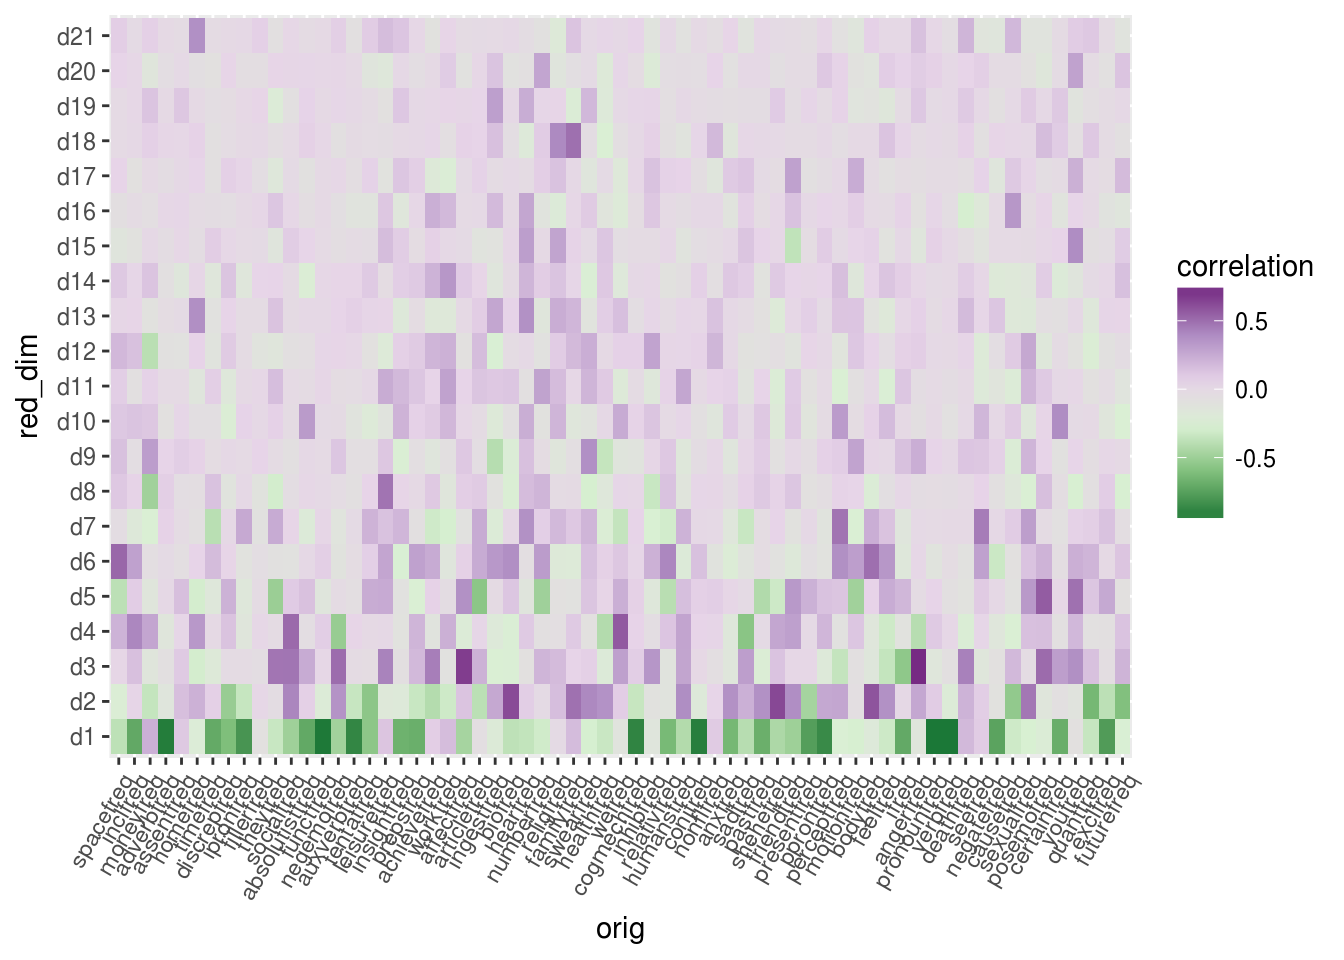
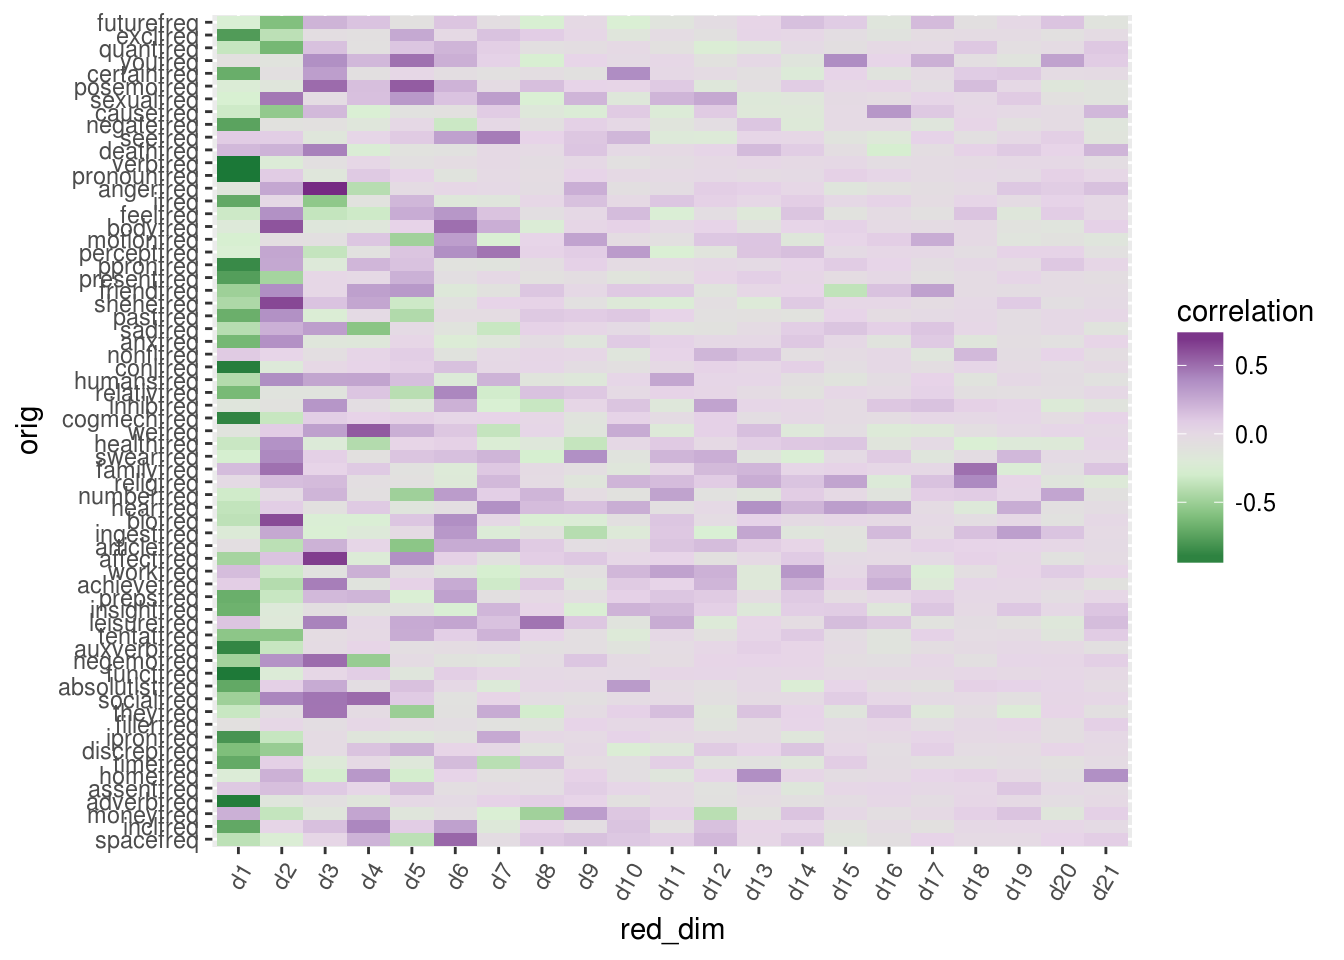
edit home

diff --git a/public/finalslides/index.html b/public/finalslides/index.html
@@ -16,8 +16,8 @@
 <meta property="og:locale" content="nn_NO" />
 <meta property="og:type" content="article" />
 <meta property="og:url" content="/finalslides/" />
-<meta property="og:title" content="Take a Sad Plot And Make It Better 3.0" />
-<meta property="twitter:title" content="Take a Sad Plot And Make It Better 3.0">
+<meta property="og:title" content="Take a Sad Plot and Make it Better 3.0" />
+<meta property="twitter:title" content="Take a Sad Plot and Make it Better 3.0">
 
     <meta property="og:image" content="/img/banner.png">
     <meta property="twitter:card" content="summary">
@@ -29,7 +29,7 @@
 <title>
 
 
-     CS631: Take a sad plot and make it better - Take a Sad Plot And Make It Better 3.0 
+     CS631: Take a sad plot and make it better - Take a Sad Plot and Make it Better 3.0 
 
 </title>
 <link rel="canonical" href="/finalslides/">
@@ -1091,7 +1091,7 @@ div.main .content .markdown pre, div.main .content .markdown pre code {
                         
                     
                         
-                            <li><a href="/finalslides/">Take a Sad Plot And Make It Better 3.0</a></li>
+                            <li><a href="/finalslides/">Take a Sad Plot and Make it Better 3.0</a></li>
                         
                     
                 </ul>
@@ -1105,30 +1105,26 @@ div.main .content .markdown pre, div.main .content .markdown pre code {
         <div class="content">
             <div class="page-heading">
 
-    Take a Sad Plot And Make It Better 3.0
+    Take a Sad Plot and Make it Better 3.0
 
 </div>
 
             <div class="markdown">
                 
     
-    <div id="data-wrangling" class="section level3">
-<h3>Data Wrangling</h3>
-<ol style="list-style-type: decimal">
-<li>All relevant R code to make the graph fully reproducible and the process in which you wrangled the data and plotted it fully comprehensible. This does not have to in one “chunk” but can be woven into your brief where it helps the reader trace what you did and why you did it.</li>
-</ol>
-</div>
-<div id="data-description" class="section level3">
-<h3>Data Description</h3>
-<ol start="2" style="list-style-type: decimal">
-<li>Description of the DATA you used (either given to you or where you found it, what unique characteristics of the data, what quantitative and qualitative information is in the data set, etc.)</li>
-</ol>
+    <p>class: inverse, middle, center</p>
+<div id="title-slide" class="section level1">
+<h1>Title Slide</h1>
+<div id="early-visualization" class="section level3">
+<h3>Early Visualization</h3>
+<hr />
 </div>
 <div id="audience" class="section level3">
 <h3>Audience</h3>
 <ol start="3" style="list-style-type: decimal">
 <li>Description of the AUDIENCE you are aiming for (including more detail than simply saying “a biochemist”).</li>
 </ol>
+<hr />
 </div>
 <div id="chart-description" class="section level3">
 <h3>Chart Description</h3>
@@ -1141,14 +1137,15 @@ div.main .content .markdown pre, div.main .content .markdown pre code {
 <ol start="5" style="list-style-type: decimal">
 <li>Representation Description: What are you trying to show?</li>
 </ol>
+<hr />
 </div>
 <div id="how-to-read-it-and-what-to-look-for" class="section level3">
 <h3>How to read it and what to look for</h3>
 <ol start="6" style="list-style-type: decimal">
 <li><p>How to read it &amp; what to look for: How should a newbie to this graph approach interpreting it? What are the major highlights of the graph type?</p></li>
 <li><p>Presentation: address how you are using annotation, color, and general composition (e.g. how are things arranged, scale, etc.)</p></li>
-<li><p>How I created it: Methods section (see point 1: all relevant code should be included); additionally, include a bit about the process. Please include an early draft of your visualization (it might be a completely different), and why you changed it/what you tweaked to get to your final visualization.</p></li>
 </ol>
+</div>
 </div>
 
 

diff --git a/public/index.html b/public/index.html
@@ -1093,10 +1093,6 @@ div.main .content .markdown pre, div.main .content .markdown pre code {
                     
                         
                     
-                        
-                            <li><a href="/finalslides/">Take a Sad Plot And Make It Better 3.0</a></li>
-                        
-                    
                 </ul>
             </nav>
         </div>
@@ -1108,7 +1104,7 @@ div.main .content .markdown pre, div.main .content .markdown pre code {
         <div class="content">
             
                 <div class="markdown">
-                <p>Hey! Welcome to the Kendra&rsquo;s test website. Most content is still default from the cocoa theme.</p>
+                <p>Hello and welcome to my website hosting final posts and slides for OHSU&rsquo;s CS 631: Principles and Practices of Data Visualization. For more information about me, OHSU, or this class, see my about page. The posts section contains 5 briefs on graphs made for this course. Slides for my final presentation can be found <a href="https://kchalk.netlify/static/slides/finalslides.rmd">here</a>.</p>
 
 <p>This page is deployed from my git repository here: <a href="https://github.com/KChalk/631Final-Project">https://github.com/KChalk/631Final-Project</a></p>
 

diff --git a/public/home/index.html b/public/home/index.html
@@ -1090,10 +1090,6 @@ div.main .content .markdown pre, div.main .content .markdown pre code {
                     
                         
                     
-                        
-                            <li><a href="/finalslides/">Take a Sad Plot And Make It Better 3.0</a></li>
-                        
-                    
                 </ul>
             </nav>
         </div>
@@ -1112,7 +1108,7 @@ div.main .content .markdown pre, div.main .content .markdown pre code {
             <div class="markdown">
                 
     
-    <p>Hey! Welcome to the Kendra&rsquo;s test website. Most content is still default from the cocoa theme.</p>
+    <p>Hello and welcome to my website hosting final posts and slides for OHSU&rsquo;s CS 631: Principles and Practices of Data Visualization. For more information about me, OHSU, or this class, see my about page. The posts section contains 5 briefs on graphs made for this course. Slides for my final presentation can be found <a href="https://kchalk.netlify/static/slides/finalslides.rmd">here</a>.</p>
 
 <p>This page is deployed from my git repository here: <a href="https://github.com/KChalk/631Final-Project">https://github.com/KChalk/631Final-Project</a></p>
 

diff --git a/public/post/graph-4-tba/index.html b/public/post/graph-4-tba/index.html
@@ -1090,10 +1090,6 @@ div.main .content .markdown pre, div.main .content .markdown pre code {
                     
                         
                     
-                        
-                            <li><a href="/finalslides/">Take a Sad Plot And Make It Better 3.0</a></li>
-                        
-                    
                 </ul>
             </nav>
         </div>
@@ -1147,7 +1143,7 @@ corlong &lt;- melt(correlations ) %&gt;%
    setNames(c(&#39;orig&#39;, &#39;red_dim&#39;, &#39;correlation&#39;))
 
 
-ggplot(corlong, aes(x=orig, y=red_dim, fill=correlation))+
+ggplot(corlong, aes(x=red_dim, y=orig, fill=correlation))+
   geom_tile()+ 
   theme(axis.text.x = element_text(angle = 60, hjust = 1))+
   scale_fill_distiller(palette = &quot;PRGn&quot;)</code></pre>

diff --git a/public/about/index.html b/public/about/index.html
@@ -1090,10 +1090,6 @@ div.main .content .markdown pre, div.main .content .markdown pre code {
                     
                         
                     
-                        
-                            <li><a href="/finalslides/">Take a Sad Plot And Make It Better 3.0</a></li>
-                        
-                    
                 </ul>
             </nav>
         </div>

diff --git a/public/categories/r/index.html b/public/categories/r/index.html
@@ -1092,10 +1092,6 @@ div.main .content .markdown pre, div.main .content .markdown pre code {
                     
                         
                     
-                        
-                            <li><a href="/finalslides/">Take a Sad Plot And Make It Better 3.0</a></li>
-                        
-                    
                 </ul>
             </nav>
         </div>

diff --git a/public/license/index.html b/public/license/index.html
@@ -1090,10 +1090,6 @@ div.main .content .markdown pre, div.main .content .markdown pre code {
                     
                         
                     
-                        
-                            <li><a href="/finalslides/">Take a Sad Plot And Make It Better 3.0</a></li>
-                        
-                    
                 </ul>
             </nav>
         </div>

diff --git a/public/post/2018-06-10-graph-1-subreddit-scatter/index.html b/public/post/2018-06-10-graph-1-subreddit-scatter/index.html
@@ -1090,10 +1090,6 @@ div.main .content .markdown pre, div.main .content .markdown pre code {
                     
                         
                     
-                        
-                            <li><a href="/finalslides/">Take a Sad Plot And Make It Better 3.0</a></li>
-                        
-                    
                 </ul>
             </nav>
         </div>

diff --git a/public/post/2018-06-11-graph-2-raincloud/index.html b/public/post/2018-06-11-graph-2-raincloud/index.html
@@ -1090,10 +1090,6 @@ div.main .content .markdown pre, div.main .content .markdown pre code {
                     
                         
                     
-                        
-                            <li><a href="/finalslides/">Take a Sad Plot And Make It Better 3.0</a></li>
-                        
-                    
                 </ul>
             </nav>
         </div>

diff --git a/public/post/graph-3-tba/index.html b/public/post/graph-3-tba/index.html
@@ -1090,10 +1090,6 @@ div.main .content .markdown pre, div.main .content .markdown pre code {
                     
                         
                     
-                        
-                            <li><a href="/finalslides/">Take a Sad Plot And Make It Better 3.0</a></li>
-                        
-                    
                 </ul>
             </nav>
         </div>

diff --git a/public/post/graph-5-finale/index.html b/public/post/graph-5-finale/index.html
@@ -1090,10 +1090,6 @@ div.main .content .markdown pre, div.main .content .markdown pre code {
                     
                         
                     
-                        
-                            <li><a href="/finalslides/">Take a Sad Plot And Make It Better 3.0</a></li>
-                        
-                    
                 </ul>
             </nav>
         </div>

diff --git a/public/post/index.html b/public/post/index.html
@@ -1092,10 +1092,6 @@ div.main .content .markdown pre, div.main .content .markdown pre code {
                     
                         
                     
-                        
-                            <li><a href="/finalslides/">Take a Sad Plot And Make It Better 3.0</a></li>
-                        
-                    
                 </ul>
             </nav>
         </div>
